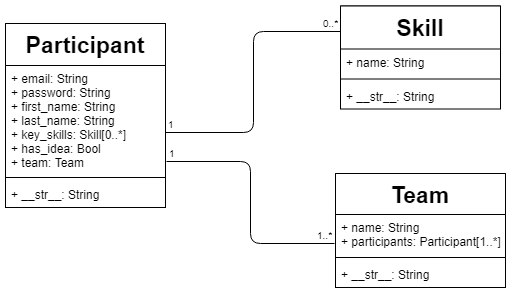
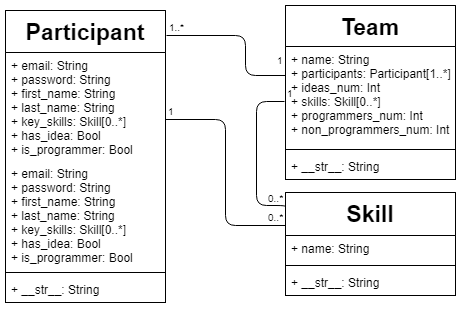
metrics added

Changed region(s): [[0.0, 0.0, 1.0, 0.8847], [0.4859, 0.5186, 1.0, 0.9763], [0.0, 0.9153, 0.3644, 0.9763]]

diff --git a/HakatonRecommendationSystem/main/models.py b/HakatonRecommendationSystem/main/models.py
@@ -10,13 +10,6 @@ class Skill(models.Model):
         return self.name
 
 
-class Team(models.Model):
-    name = models.CharField(max_length=200)
-
-    def __str__(self):
-        return self.name
-
-
 class Participant(models.Model):
     email = models.CharField(max_length=200)
     password = models.CharField(max_length=200)
@@ -24,7 +17,19 @@ class Participant(models.Model):
     last_name = models.CharField(max_length=200)
     key_skills = models.ManyToManyField(Skill)
     has_idea = models.BooleanField()
-    team = models.ForeignKey(Team, on_delete=models.SET_NULL, null=True)
+    #photo = models.ImageField(upload_to='participants')
 
     def __str__(self):
         return '{0} {1}'.format(self.last_name, self.first_name)
+
+
+class Team(models.Model):
+    name = models.CharField(max_length=200)
+    ideas_num = models.IntegerField()
+    programmers_num = models.IntegerField()
+    non_programmers_num = models.IntegerField()
+    skills = models.ManyToManyField(Skill)
+    participants = models.ManyToManyField(Participant)
+
+    def __str__(self):
+        return self.name

diff --git a/HakatonRecommendationSystem/main/metrics.py b/HakatonRecommendationSystem/main/metrics.py
@@ -1,0 +1,20 @@
+import numpy as np
+
+
+def skills_similarity(skills_team1, skills_team2):
+    return len(set(skills_team1).intersection(skills_team2)) / len(set().union(skills_team1, skills_team2))
+
+
+def hakaton_experience(exp_team1, exp_team2):
+    return exp_team1 or exp_team2
+
+
+def ideas_metrics(count_ideas_team1, count_ideas_team2):
+    return np.tanh(count_ideas_team1 + count_ideas_team2)
+
+
+def programmer_ratio(p1, n1, p2, n2):
+    if p1 + p2 == 0:
+        return 0
+    else:
+        return 1 - 1 / (1 + np.exp(-(((n1 + n1) / (p1 + p2)) - 1 / 3)))
